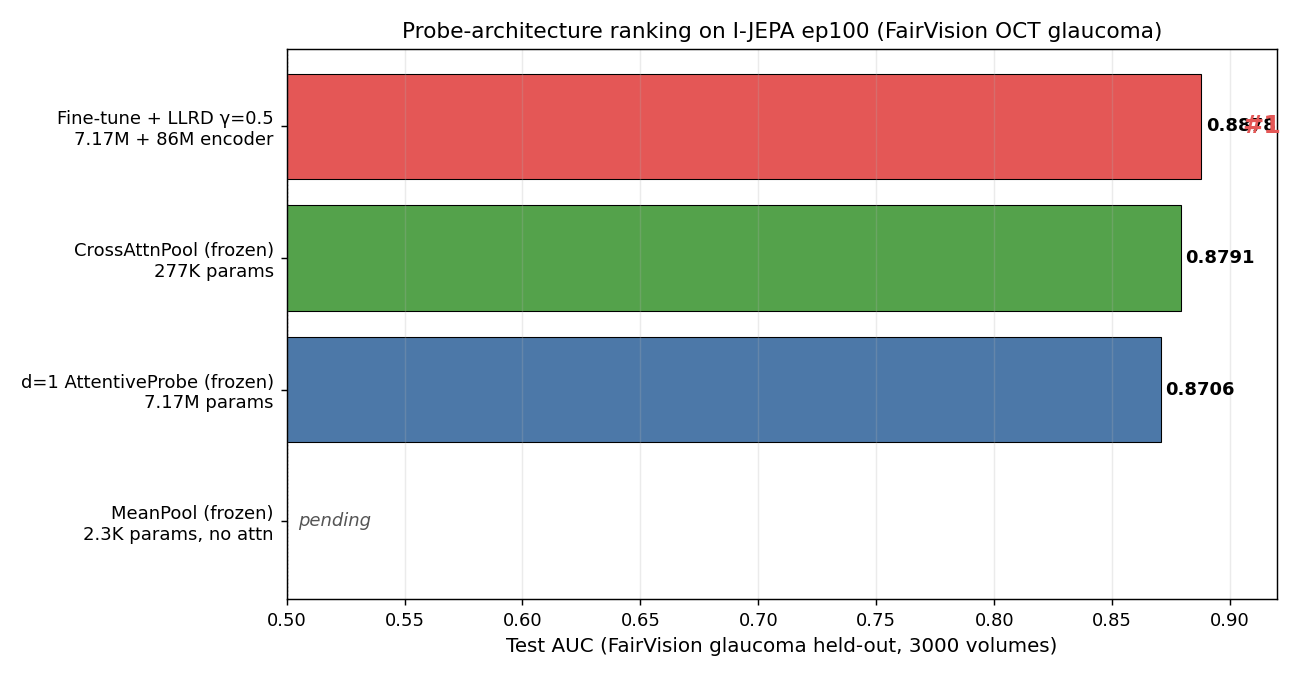
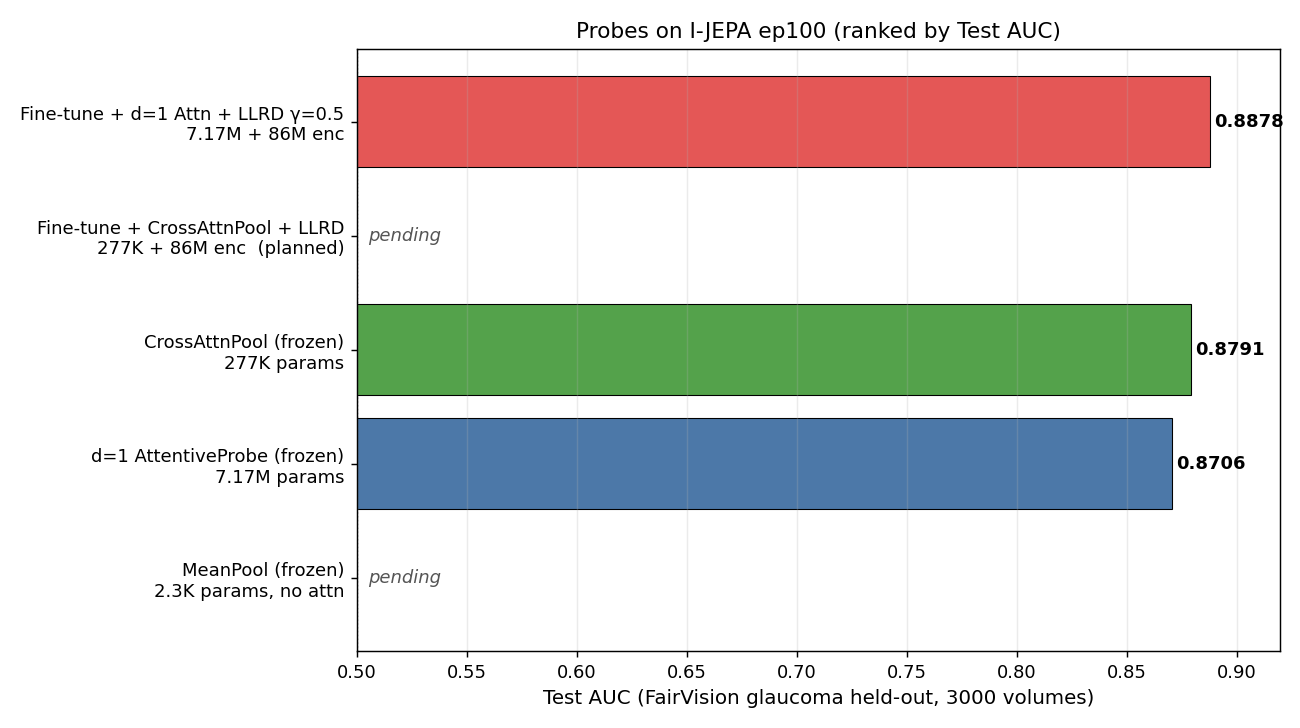
Clean ranking chart + document planned fine-tune+CrossAttnPool run
Chart fixes:
  - Dropped the '#1' annotation (was ugly); ranking is clear from
    bar order (lowest AUC at bottom, winner at top).
  - Added a placeholder 'Fine-tune + CrossAttnPool + LLRD' bar so
    the chart shows what is still to come, greyed as pending.
  - Title changed to 'Probes on I-JEPA ep100 (ranked by Test AUC)'.

Docs:
  - README.md: swap chart caption, explicitly list the two pending
    runs (MeanPool frozen, Fine-tune + CrossAttnPool) so readers
    know the picture isn't final yet.
  - docs/experiments/finetune/README.md: add a 'queued' row for the
    fine-tune-crossattn run so the table matches current plan.

Operational note (memory, not committed here): user rule is to
never co-schedule AML jobs on the same compute; always wait for
terminal before next submit. Applied from now on.

Changed region(s): [[0.0, 0.0311, 1.0, 0.7145], [0.2154, 0.8698, 0.9846, 0.9941], [0.0615, 0.7456, 0.3385, 0.8388]]

diff --git a/README.md b/README.md
@@ -18,7 +18,11 @@ Best model: **fine-tune with MAE-style LLRD**. +0.017 Test AUC over the frozen b
 
 ![Probe-architecture ranking on ep100](results/summary/probe_ranking_ep100.png)
 
-MeanPool bar will be filled in once `quirky_branch_vkcy47sptn` lands (~1h). Sweep across pretraining epochs (ep25/50/75/100) lives at [`docs/experiments/frozen/d1_sweep.md`](docs/experiments/frozen/d1_sweep.md).
+Pending bars:
+- **MeanPool (frozen)** — running as `quirky_branch_vkcy47sptn` (~1h out). Quantifies how much slice-aware attention earns vs pure mean-pool.
+- **Fine-tune + CrossAttnPool + LLRD** — queued to run after MeanPool. Tests whether the 277K probe beats d=1-attn under fine-tuning, just like it did under frozen eval.
+
+Pretraining-epoch sweep (ep25/50/75/100) lives at [`docs/experiments/frozen/d1_sweep.md`](docs/experiments/frozen/d1_sweep.md).
 
 ## Method
 

diff --git a/docs/experiments/finetune/README.md b/docs/experiments/finetune/README.md
@@ -9,6 +9,7 @@ DDP on 4× T4 (16 GB each), batch_size=1/GPU, grad accumulation=4 → effective 
 | Run | AML job | Encoder init | Probe | Val AUC | Test AUC | Detail |
 |---|---|---|---|---|---|---|
 | LLRD γ=0.5 on ep100 | `silver_music_r9b0ccn6nc` | Random-init SSL ep100 | AttentiveProbe d=1 + Linear | **0.8751** (ep4) | **0.8878** | [llrd.md](llrd.md) |
+| LLRD γ=0.5 on ep100, CrossAttnPool | queued | Random-init SSL ep100 | CrossAttnPool + Linear (277K) | pending | pending | planned |
 
 Beats the frozen d=1 baseline (Test 0.8706) by **+0.017 Test AUC**, within Zhou 2025's 2-4% fine-tune-vs-LP gap for retinal tasks.
 
